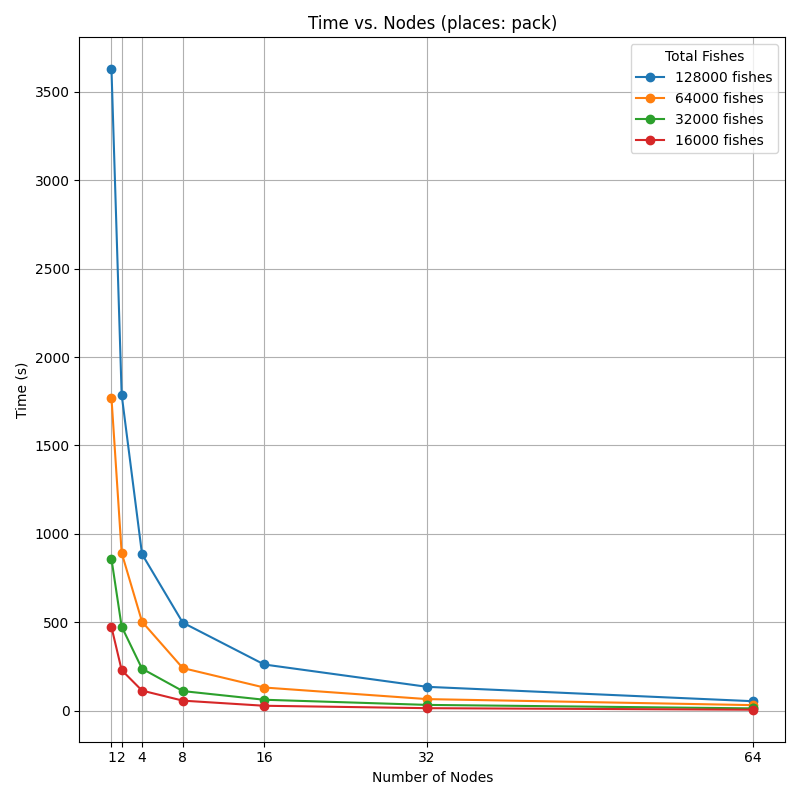
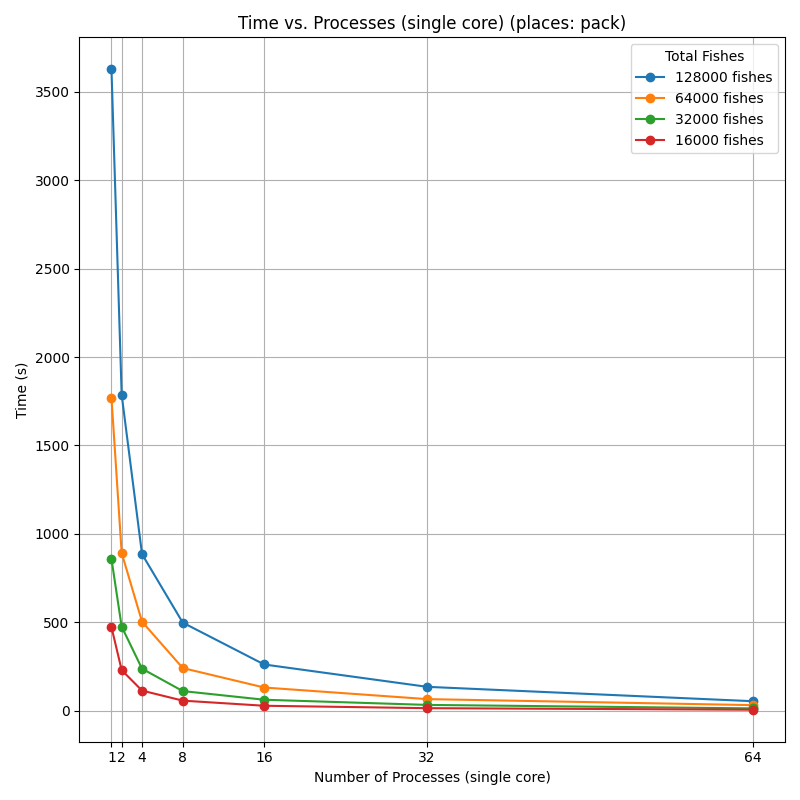
fix time_strong_mpi, nuovo time_strong_open_mp e modifica alle immagini

Changed region(s): [[0.3125, 0.0, 0.7812, 0.0625], [0.4062, 0.9688, 0.6875, 1.0]]

diff --git a/graphs/time_strong_openmp.py b/graphs/time_strong_openmp.py
@@ -16,11 +16,11 @@ place_filter = 'pack' if choice == '0' else 'scatter'
 grouped_data = defaultdict(list)
 
 for run_id, values in data.items():
-    if values["cores"] == 1 and values["places"] == place_filter:
+    if values["nodes"] == 1 and values["places"] == place_filter:
         total_fishes = values["total_fishes"]
-        nodes = values["nodes"]
+        cores = values["cores"]
         time = values["time"]
-        grouped_data[total_fishes].append((nodes, time))
+        grouped_data[total_fishes].append((cores, time))
 
 # Plotting
 plt.figure(figsize=(8, 8))
@@ -36,11 +36,11 @@ for total_fishes in sorted(grouped_data.keys(), reverse=True):
 # plt.ylim(0, 1.3)
 plt.xticks([1, 2, 4, 8, 16, 32, 64])
 plt.grid(True, which='both', axis='x')
-plt.xlabel('Number of Processes (single core)')
+plt.xlabel('Number of Cores (single process)')
 plt.ylabel('Time (s)')
-plt.title(f"Time vs. Processes (single core) (places: {place_filter})")
+plt.title(f"Time vs. Cores (single process) (places: {place_filter})")
 plt.legend(title='Total Fishes')
 plt.grid(True)
 plt.tight_layout()
-# plt.show()
-plt.savefig(f"images/time_vs_nodes_mpi_strong_{place_filter}.png", dpi=100)
+plt.show()
+# plt.savefig(f"images/time_vs_nodes_mpi_strong_{place_filter}.png", dpi=100)
